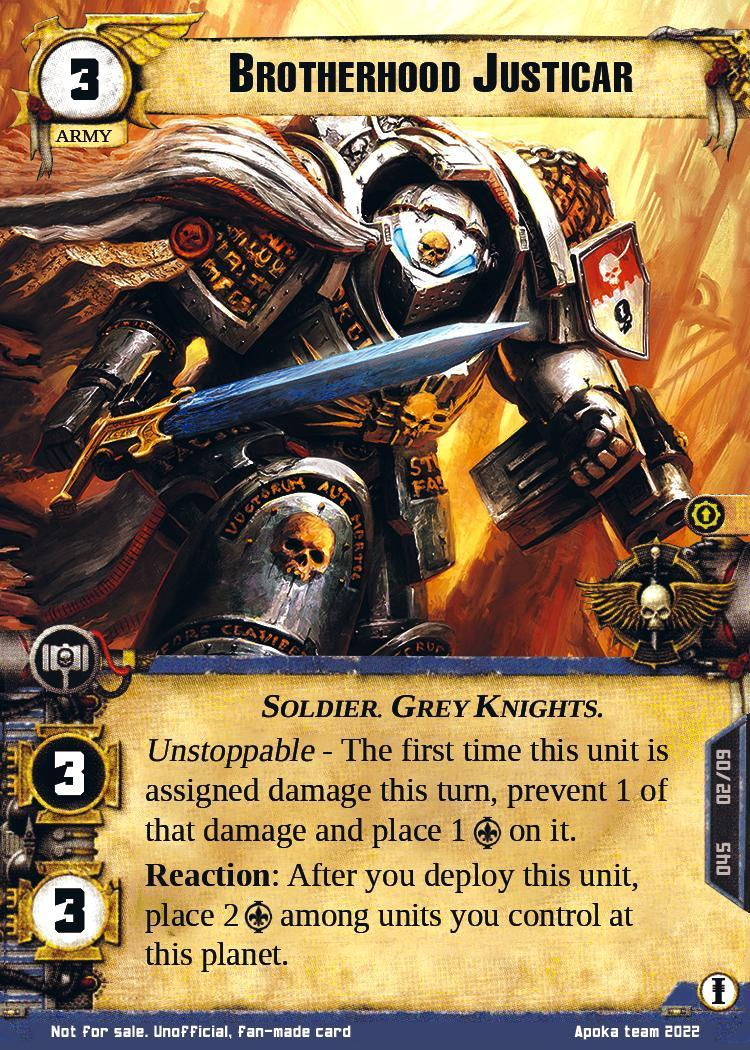
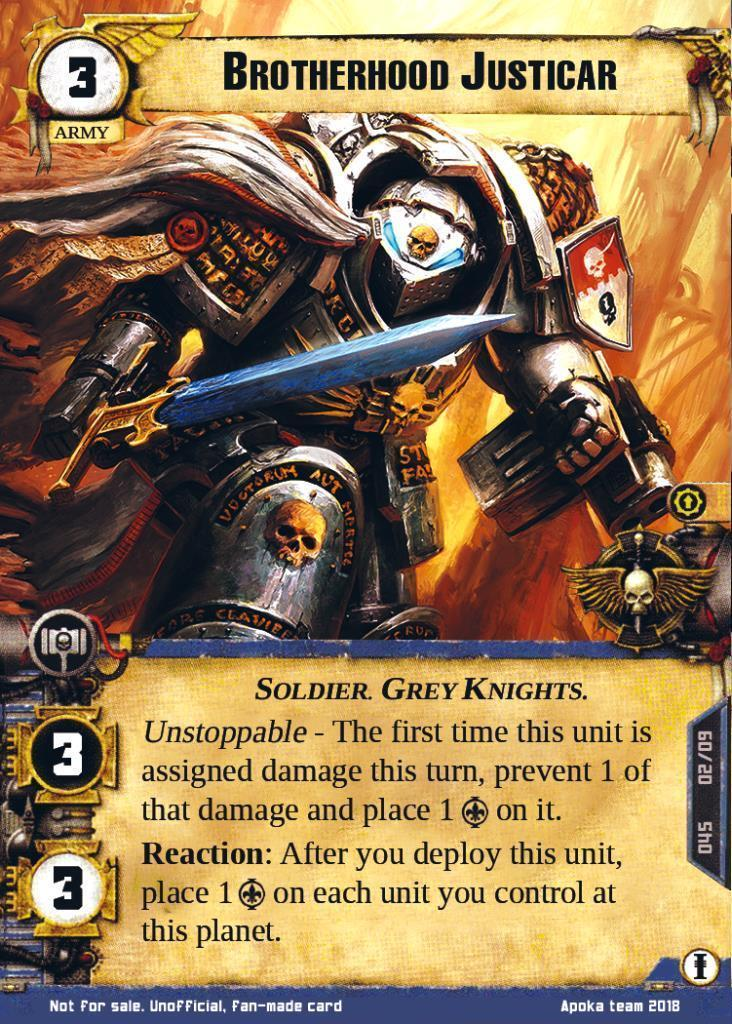
Got images of Brotherhood Justicar the wrong way round

diff --git a/conquestdb/templates/home.html b/conquestdb/templates/home.html
@@ -45,7 +45,7 @@
 </style>
 <div class="box-scroll">
   <h1>Changelog</h1>
-  <p>22/08/2025 Version 1.0.3a hotfix - Could no longer between bloodied and errata sides of card images.</p>
+  <p>22/08/2025 Version 1.0.3a hotfix - Fixed not being able to toggle between bloodied and errata sides of card images. Brotherhood Justicar images swapped round.</p>
   <p>21/08/2025 Version 1.0.3d - Minor graphical improvements. Fixed Call The Storm being misnamed as Call the Storm.</p>
   <p>19/08/2025 Version 1.0.3c - Can now search by a keyword or specialization in the deck creation filter.</p>
   <p>19/08/2025 Version 1.0.3b - Minor graphical improvements.</p>
